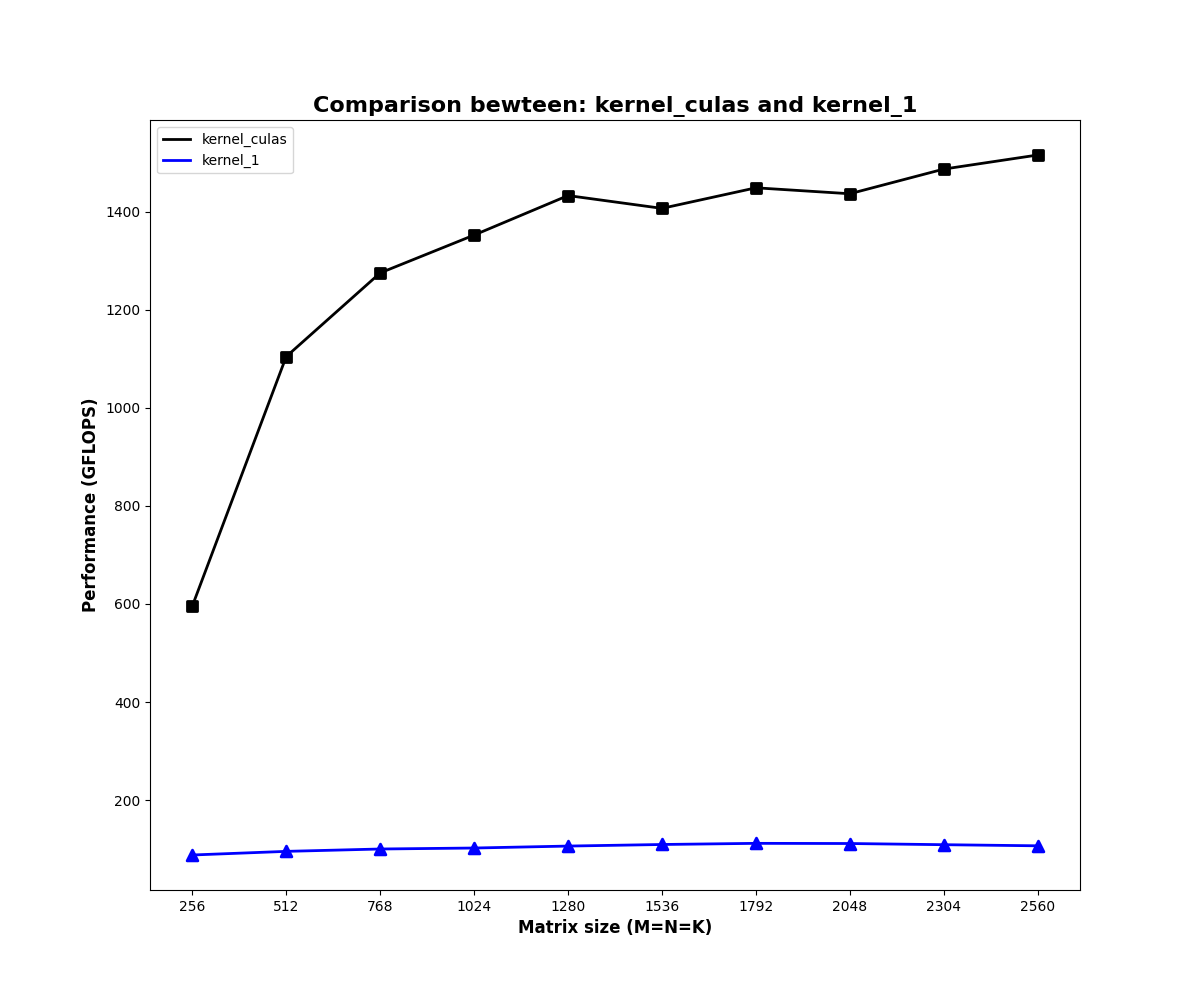
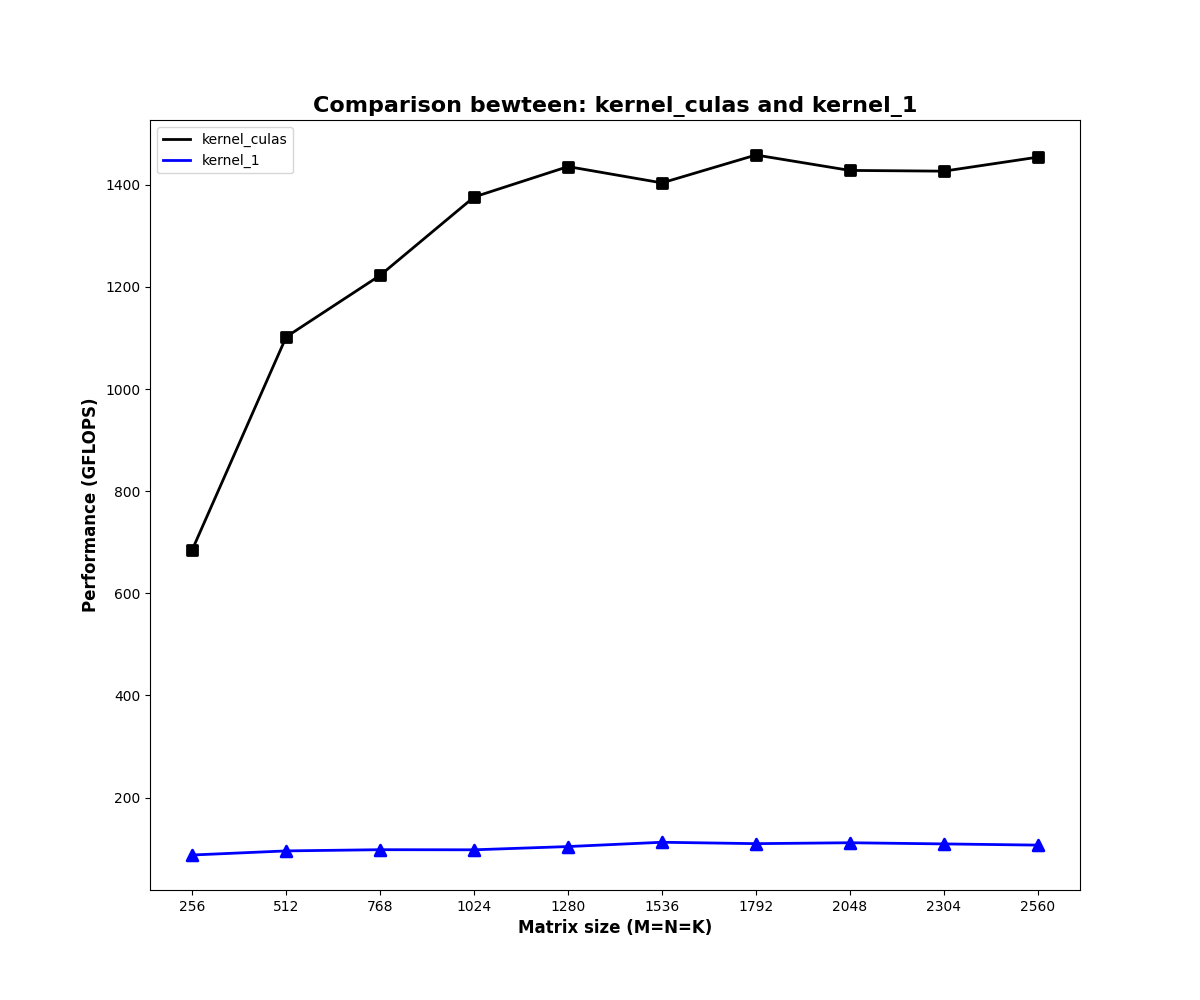
refine

diff --git a/sgemm/tools/plot.py b/sgemm/tools/plot.py
@@ -48,8 +48,8 @@ def plot(num1, num2, y1, y2, save_dir):
 
 def main(args):
     root = os.path.dirname(os.path.abspath(__file__))
-    data1 = parse_file(os.path.join(root, f'../test/test_kernel_{args.one}.txt'))
-    data2 = parse_file(os.path.join(root, f'../test/test_kernel_{args.another}.txt'))
+    data1 = parse_file(os.path.join(root, f'../test/test_kernel_{args.one}.log'))
+    data2 = parse_file(os.path.join(root, f'../test/test_kernel_{args.another}.log'))
     plot(args.one, args.another, data1, data2, args.save_dir)
 
 

diff --git a/sgemm/README.md b/sgemm/README.md
@@ -1,26 +1,30 @@
-# 开发流程
-## 编写kernel
+# CUDA SGEMM 优化
+## 开发环境
+设备：NVIDIA GeForce GTX 1050
 
-## 测试
-编译：
+## 开发流程
+1. 在src下编写kernel.cu
+2. 在include编写对应头文件，并在include/kernel.cuh中包含该头文件
+3. 编译：
 ```bash
 mkdir build && cd build
 cmake ..
 make
 ```
-运行：
+4. 运行：
 ```bash
 # run cuBLAS(0) or custom kernel(>0)
 ./main 0  # cuBLAS
 ./main 1  # kernel1
 ...
 ```
-测试并画图：
+5. 测试并画图：
 ```bash
-bash tools/test.sh  # 图片保存在 ./images
+bash tools/test.sh  # 日志保存在./test, 图片保存在./images
 ```
 
-# SGEMM Native实现
+## Kernel1：Native 实现
+![](./images/kernel_culas_vs_1.png)
 将每个逻辑线程与矩阵C的每一个元素相对应，每个线程负责C中一个元素的计算；
 
 未经过优化的矩阵乘法性能不足CUBLAS的1/10，具体分析如下；
@@ -28,13 +32,3 @@ bash tools/test.sh  # 图片保存在 ./images
 计算访存比：每次迭代需要进行一次FMA（乘累加）和两次全局内存读取，计算访存比1/2；
 访存量：访问全局内存，C矩阵每个元素计算需要访问2K个单精度浮点数，完成全部计算需要 $2*K*M*N$；
 全局内存访问延迟高（几百cycle），同时相同位置元素被重复读取（C中同一行元素计算共享A中同一行元素，C中同一列元素计算共享B中同一列元素），另一方面，较低的计算访存比无法有效隐藏访存延迟，因此，访存延迟和计算访存比是导致kernel 1效率低下的原因。
-
-对比
-```
-m=n=k=256
-# cuBLAS
-Average elasped time: (0.000049) second, performance: (689.172421) GFLOPS. size: (256).
-
-# native
-Average elasped time: (0.000374) second, performance: (89.822253) GFLOPS. size: (256).
-```

diff --git a/README.md b/README.md
@@ -1,1 +1,2 @@
-设备：NVIDIA GeForce GTX 1050
+example：一些简单的例子
+sgemm：矩阵乘优化
